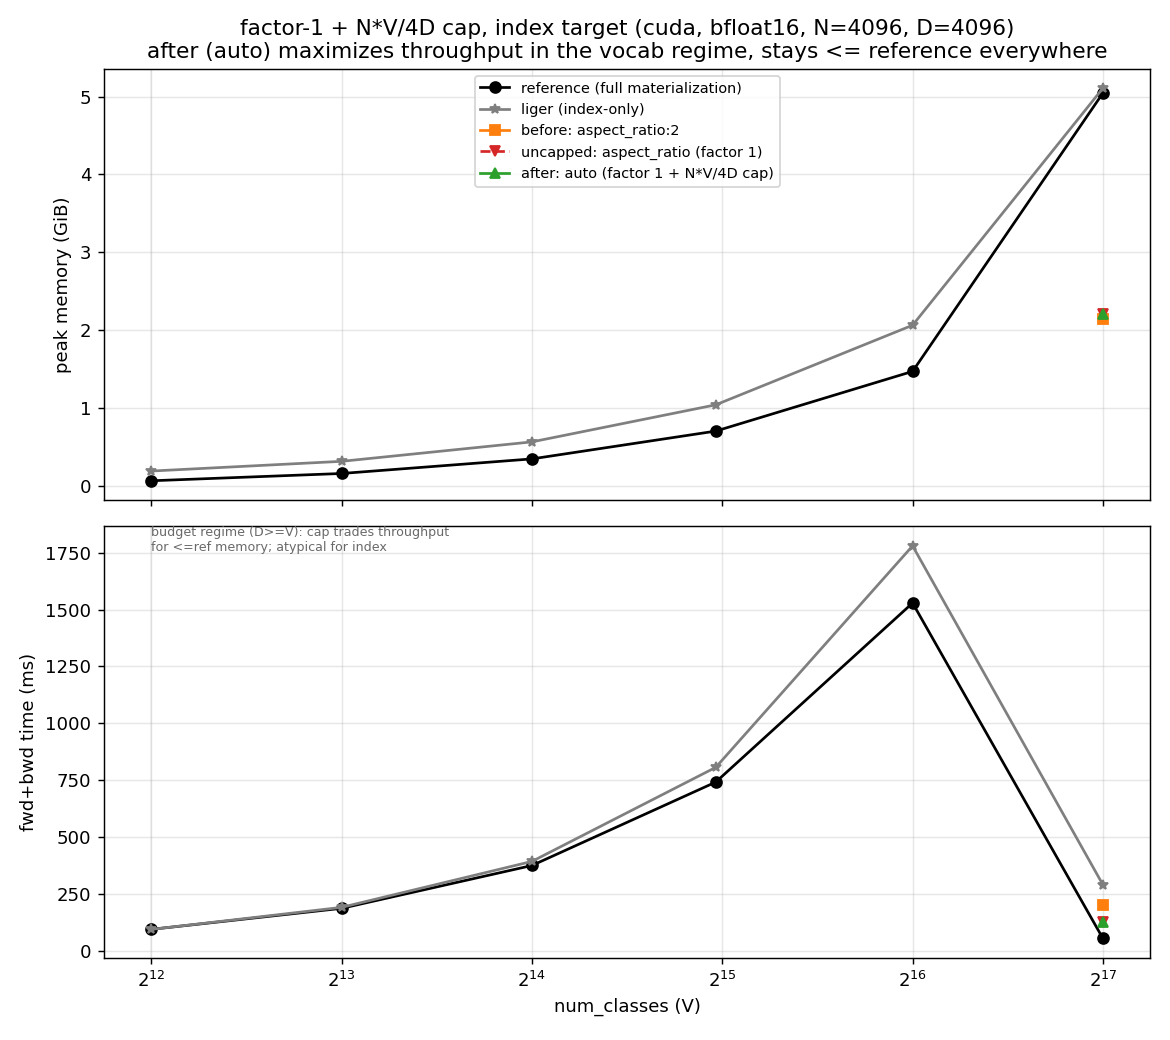
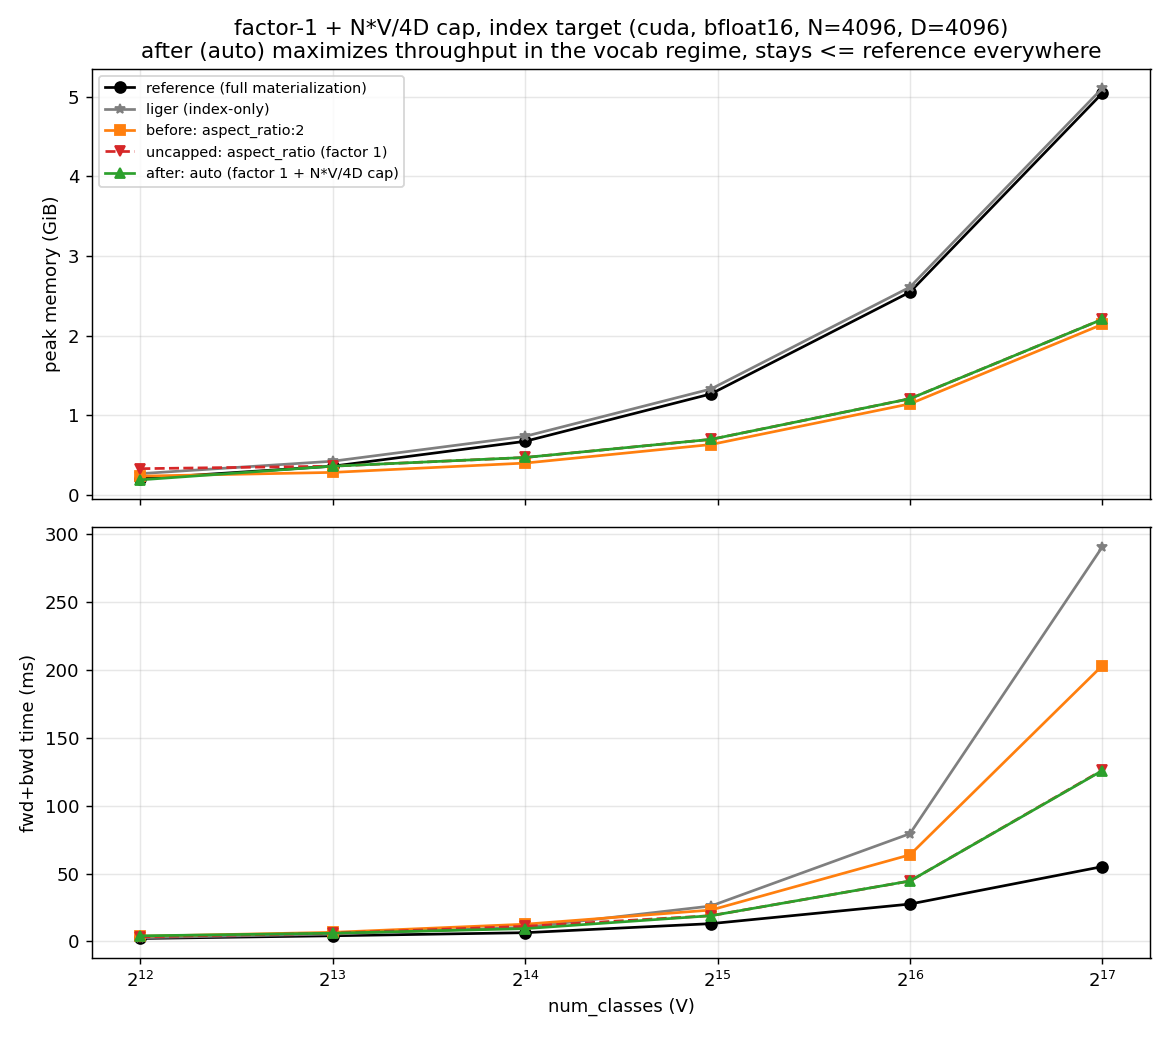
lce: only shade/annotate budget regime when it's a real tail (>=2 points)
Fixes the spurious "budget regime" annotation on the num_classes (vocab)
sweep, which has no D>=V region. Regenerates the two bf16 figures:
Fig A (num_classes, throughput win) and Fig B (in_features, cap-safety).

diff --git a/pytorch/lce/plot_cap_before_after.py b/pytorch/lce/plot_cap_before_after.py
@@ -96,11 +96,10 @@ def main():
     # V >> D), so the time cost there is the intended tradeoff, not a regression.
     # It sits at the high-D end of an in_features sweep, the low-V end of a
     # num_classes sweep.
-    lo, hi = min(xs_all), max(xs_all)
-    if args.x_axis == "in_features":
-        span = (max(args.num_classes, lo), hi) if hi >= args.num_classes else None
-    else:
-        span = (lo, min(args.in_features, hi)) if lo <= args.in_features else None
+    budget_xs = [x for x in xs_all
+                 if int(by_x[x]["reference"]["in_features"])
+                 >= int(by_x[x]["reference"]["num_classes"])]
+    span = (min(budget_xs), max(budget_xs)) if len(budget_xs) >= 2 else None
     for ax in (ax_mem, ax_t):
         ax.set_xscale("log", base=2)
         ax.grid(True, alpha=0.3)
